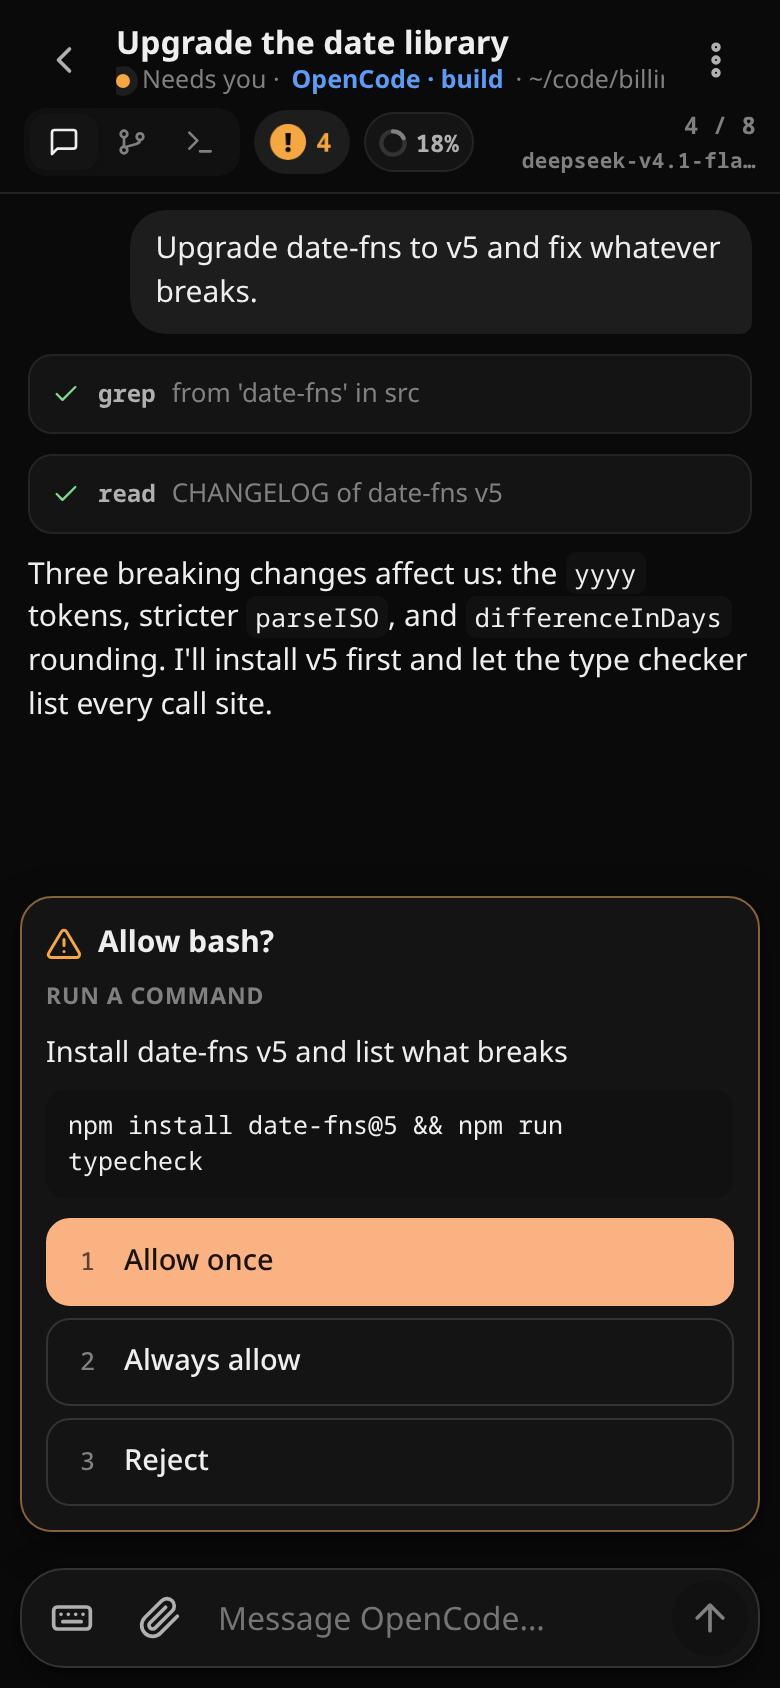
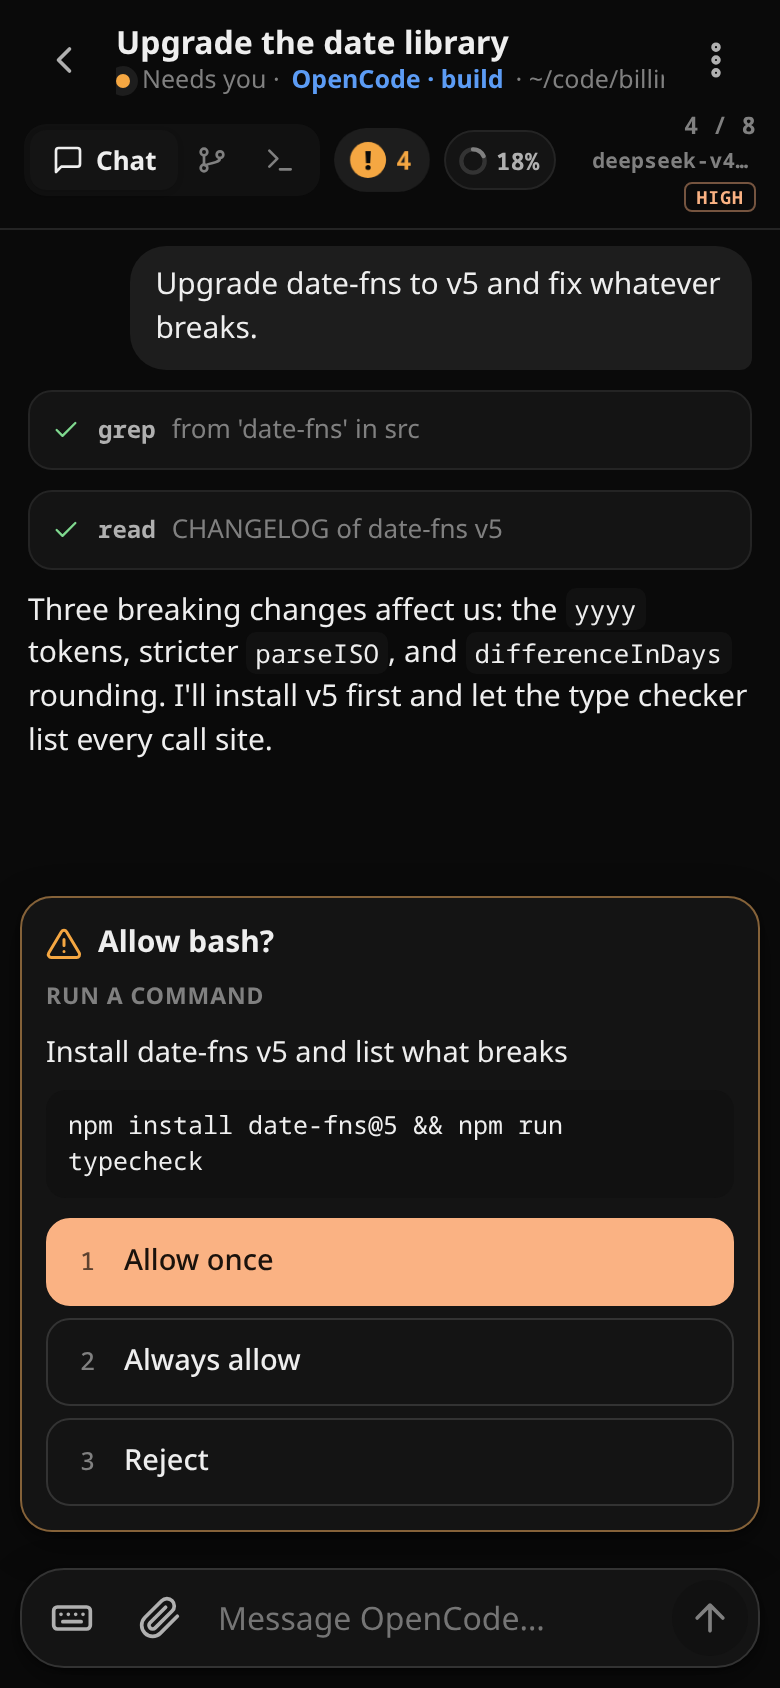
Effort badge under the model name; /btw in the commands
- Session header: a tiny badge with the reasoning effort (Claude Code: from the
  transcript's assistant lines; OpenCode: the model variant, no longer glued to the
  model name). Long model names are cut short so the badge and pager stay visible.
- Commands: /btw puts "/btw " in the message box; sent while Claude works it isn't
  shown as queued, and a hint points to the Terminal tab for the answer.

diff --git a/public/app.js b/public/app.js
@@ -482,7 +482,7 @@ function renderSession(id) {
       <button class="alert-btn" id="alertbtn" hidden aria-label="Pending actions"></button>
       <button class="hd-ctx" id="ctxbtn" hidden></button>
       <button class="hd-agents" id="agentsbtn" hidden></button>
-      <div class="sub-right"><div class="pager" id="pager"></div><div class="sub-model" id="s-model"></div></div>
+      <div class="sub-right"><div class="pager" id="pager"></div><div class="sub-model" id="s-model"></div><div class="sub-eff" id="s-eff"></div></div>
     </div>
     </div>
     <div id="body" style="flex:1;display:flex;flex-direction:column"></div>
@@ -831,7 +831,9 @@ function renderDock(s) {
       ta.value = ""; delete S.drafts[s.id]; atts.length = 0; drawAtts(); grow();
       // Busy session: show it as queued right away (the transcript can lag while Claude is streaming).
       const live = S.sessions.find((x) => x.id === s.id);
-      if (live?.status === "working" && S.chat?.id === s.id) {
+      // /btw is answered at once, beside the current task, and only on Claude Code's screen.
+      if (/^\/btw\s/.test(text)) toast("Asked. The answer shows in the Terminal tab");
+      else if (live?.status === "working" && S.chat?.id === s.id) {
         const q = queuedEl(text, S.chat, true);
         if (q) { S.chat.queue.appendChild(q); setTimeout(() => q.classList.contains("local") && q.remove(), 120_000); }
       }
@@ -1460,7 +1462,10 @@ function openSessionMenu(id) {
 }
 
 // ───────── commands & quick replies ─────────
+// [command, description, dangerous?, takes text?]. Commands that take text go into the message box instead
+// of being sent right away.
 const COMMANDS = [
+  ["/btw", "Ask a side question without interrupting the current task (answer shows in the Terminal tab)", false, true],
   ["/compact", "Summarise the conversation to free up context"],
   ["/context", "Show how full the context window is"],
   ["/model", "Switch model"],
@@ -1474,7 +1479,7 @@ function quickReplies() {
 function openPalette(s) {
   const isOC = s.kind === "opencode";
   const { el, close } = sheet(`${isOC ? "" : "<h3>Commands</h3>"}
-    <div class="pal">${(isOC ? [] : COMMANDS).map(([c, d, danger]) => `<button class="list-row" data-cmd="${c}" ${danger ? 'data-danger="1"' : ""}><div class="grow"><div class="t" style="font-family:var(--mono)">${c}</div><div class="s" style="font-family:var(--font)">${esc(d)}</div></div></button>`).join("")}</div>
+    <div class="pal">${(isOC ? [] : COMMANDS).map(([c, d, danger, arg]) => `<button class="list-row" data-cmd="${c}" ${danger ? 'data-danger="1"' : ""} ${arg ? 'data-arg="1"' : ""}><div class="grow"><div class="t" style="font-family:var(--mono)">${c}</div><div class="s" style="font-family:var(--font)">${esc(d)}</div></div></button>`).join("")}</div>
     <h3 style="margin-top:${isOC ? 0 : 20}px">Quick replies</h3>
     <div class="quick" id="quick"></div>
     <div style="display:flex;gap:8px;margin-top:10px"><input id="qnew" class="qin" placeholder="Add a quick reply…"><button class="btn" id="qadd">Add</button></div>
@@ -1484,6 +1489,12 @@ function openPalette(s) {
     catch (e) { toast(e.message, true); }
   };
   el.querySelectorAll("[data-cmd]").forEach((b) => (b.onclick = async () => {
+    if (b.dataset.arg) {
+      close();
+      const ta = $("#msg");
+      if (ta) { ta.value = b.dataset.cmd + " "; ta.dispatchEvent(new Event("input")); ta.focus(); ta.setSelectionRange(ta.value.length, ta.value.length); }
+      return;
+    }
     if (b.dataset.danger && !(await ask(`Send ${b.dataset.cmd}?`, "This can't be undone.", "Send", true))) return;
     send1(b.dataset.cmd);
   }));
@@ -2107,6 +2118,8 @@ function renderHeadExtras(s) {
   if (!cb || !ab) return;
   const md = $("#s-model");
   if (md) { const name = shortModel(s.context?.model ?? s.modelName); md.textContent = name; md.title = s.context?.model ?? s.modelName ?? ""; }
+  const ef = $("#s-eff"), effort = s.effort ?? s.context?.effort ?? "";
+  if (ef && ef.textContent !== effort) { ef.textContent = effort; ef.dataset.level = effort.toLowerCase(); ef.title = effort ? `Reasoning effort: ${effort}` : ""; }
   requestAnimationFrame(fitSubbar);
   const c = s.context;
   cb.hidden = !c;

diff --git a/tools/demo/server.ts b/tools/demo/server.ts
@@ -49,7 +49,7 @@ const sessions = [
   {
     ...base, id: "s-cache", name: "cc-api-2", title: "Cache product listings", cwd: "/home/demo/code/api", home: "~/code/api",
     status: "waiting", activityAt: now - 3 * min, startedAt: now - 25 * min,
-    context: { pct: 22, tokens: 220_000, size: 1_000_000, model: "claude-fable-5-2" },
+    context: { pct: 22, tokens: 220_000, size: 1_000_000, model: "claude-fable-5-2", effort: "medium" },
     prompt: {
       question: "Would you like to proceed?",
       context: ["Ready to code?", "Here is Claude's plan:"],
@@ -85,13 +85,13 @@ const sessions = [
   {
     ...base, id: "ses_demo1", name: "opencode", title: "Migrate billing to the new invoices table", cwd: "/home/demo/code/billing", home: "~/code/billing",
     status: "idle", activityAt: now - 26 * min, startedAt: now - 90 * min, kind: "opencode", agentName: "build", tmux: null,
-    modelName: "deepseek-v4.1-flash-free",
+    modelName: "deepseek-v4.1-flash-free", effort: "high",
     context: { pct: 41, tokens: 53_000, size: 128_000, model: "deepseek-v4.1-flash-free" }, agents: { total: 1, running: 0 },
   },
   {
     ...base, id: "ses_demo2", name: "opencode", title: "Upgrade the date library", cwd: "/home/demo/code/billing", home: "~/code/billing",
     status: "waiting", activityAt: now - 1 * min, startedAt: now - 9 * min, kind: "opencode", agentName: "build", tmux: null,
-    modelName: "deepseek-v4.1-flash-free",
+    modelName: "deepseek-v4.1-flash-free", effort: "high",
     context: { pct: 18, tokens: 23_000, size: 128_000, model: "deepseek-v4.1-flash-free" },
     prompt: {
       question: "Allow bash?",
@@ -109,7 +109,7 @@ const sessions = [
 ];
 
 // Context-window use and subagent counts (shown in the session header).
-const ctx = (pct: number, size = 1_000_000) => ({ pct, tokens: Math.round((pct / 100) * size), size, model: "claude-opus-5-5" });
+const ctx = (pct: number, size = 1_000_000) => ({ pct, tokens: Math.round((pct / 100) * size), size, model: "claude-opus-5-5", effort: "xhigh" });
 const extra: Record<string, any> = {
   "s-tests": { context: ctx(38), agents: { total: 3, running: 1 } },
   "s-plan": { context: ctx(12), agents: { total: 1, running: 0 } },

diff --git a/src/subagents.ts b/src/subagents.ts
@@ -10,7 +10,7 @@ import { readRange, fileSize, readTail, parseLines, type Item } from "./claude";
 // /compact boundary to its postTokens. The transcript doesn't record the window size, so it comes
 // from the model id: haiku and pre-4.6 Opus/Sonnet have 200k unless the id says [1m]; newer
 // models run with 1M in Claude Code. Seeing more than 200k in use also proves a 1M window.
-export type Context = { pct: number; tokens: number; size: number; model: string | null };
+export type Context = { pct: number; tokens: number; size: number; model: string | null; effort?: string | null };
 
 export function windowSize(model: string | null, tokens: number) {
   const m = (model ?? "").toLowerCase();
@@ -35,7 +35,7 @@ export function contextUsage(path: string | null): Context | null {
       const l = lines[i];
       if (!l.startsWith('{"parentUuid"') || l.includes('"isSidechain":true')) continue;
       if (l.includes('"subtype":"compact_boundary"')) {
-        try { const o = JSON.parse(l); const t = Math.trunc(Number(o.compactMetadata?.postTokens) || 0); ctx = { pct: 0, tokens: t, size: 0, model: c?.ctx?.model ?? null }; } catch {}
+        try { const o = JSON.parse(l); const t = Math.trunc(Number(o.compactMetadata?.postTokens) || 0); ctx = { pct: 0, tokens: t, size: 0, model: c?.ctx?.model ?? null, effort: c?.ctx?.effort ?? null }; } catch {}
         if (ctx) break;
       }
       if (!l.includes('"type":"assistant"') || !l.includes('"usage"')) continue;
@@ -44,7 +44,8 @@ export function contextUsage(path: string | null): Context | null {
       const u = o.message?.usage, model = o.message?.model;
       if (o.type !== "assistant" || !u || model === "<synthetic>") continue;
       const t = (u.input_tokens ?? 0) + (u.cache_creation_input_tokens ?? 0) + (u.cache_read_input_tokens ?? 0);
-      ctx = { pct: 0, tokens: t, size: 0, model: model ?? null };
+      // Assistant lines carry the effort level the reply was made with (low|medium|high|xhigh|max).
+      ctx = { pct: 0, tokens: t, size: 0, model: model ?? null, effort: typeof o.effort === "string" ? o.effort : null };
       break;
     }
     if (size <= span) break;

diff --git a/public/app.css b/public/app.css
@@ -646,8 +646,13 @@ mark { background: color-mix(in oklab, var(--accent) 30%, transparent); color: v
 /* row 2: tabs · alert · context · agents · (pager over model name) */
 .subbar { gap: 7px; }
 .sub-right { flex: 1 0 auto; display: flex; flex-direction: column; align-items: flex-end; gap: 3px; }
-.sub-model { font: 600 10.5px var(--mono); color: var(--ink-3); white-space: nowrap; overflow: hidden; text-overflow: ellipsis; max-width: 100%; letter-spacing: .02em; }
+.sub-model { font: 600 10.5px var(--mono); color: var(--ink-3); white-space: nowrap; overflow: hidden; text-overflow: ellipsis; max-width: 13ch; letter-spacing: .02em; }
 .sub-model:empty { display: none; }
+/* Reasoning effort, a tiny badge under the model name */
+.sub-eff { font: 700 9px/13px var(--mono); text-transform: uppercase; letter-spacing: .06em; padding: 0 5px; border-radius: 4px; color: var(--ink-3); border: 1px solid var(--line); white-space: nowrap; }
+.sub-eff:empty { display: none; }
+.sub-eff[data-level="high"] { color: var(--accent); border-color: color-mix(in srgb, var(--accent) 45%, transparent); }
+.sub-eff[data-level="xhigh"], .sub-eff[data-level="max"] { color: var(--bg); background: var(--accent); border-color: var(--accent); }
 .subbar .hd-ctx, .subbar .hd-agents { height: 30px; }
 .subbar.compact .seg button:not(.on) span { display: none; }
 .subbar.compact .seg button:not(.on) { padding: 6px 9px; }

diff --git a/src/server.ts b/src/server.ts
@@ -65,6 +65,8 @@ type Session = {
   kind?: "claude" | "opencode";
   agentName?: string;
   modelName?: string;
+  /** Reasoning effort: Claude Code's from the transcript, OpenCode's model variant. */
+  effort?: string | null;
   permId?: string;
   /** Claude Code shows "ctrl+b to run in background" for the running command or subagent. */
   canBackground?: boolean;
@@ -100,7 +102,7 @@ function ocToSession(o: OC.OcSession): Session {
     id: o.id, pid: 0, name: o.title, title: o.title, cwd: o.cwd, context: o.context, agents: o.agents,
     status: prompt ? "waiting" : o.running ? "working" : "idle",
     tmux: null, attention: null, prompt, lastInputAt: 0, activityAt: o.updated, startedAt: o.created, doneAt: h.doneAt,
-    kind: "opencode", agentName: o.agent, modelName: o.model ? o.model.id + (o.model.variant ? ` · ${o.model.variant}` : "") : undefined,
+    kind: "opencode", agentName: o.agent, modelName: o.model?.id, effort: o.model?.variant || null,
     permId: perm?.id,
   };
 }

diff --git a/tests/context.test.ts b/tests/context.test.ts
@@ -31,9 +31,9 @@ describe("contextUsage", () => {
   test("uses the newest main-chain assistant usage (input + cache, not output)", () => {
     const f = transcript(
       L.assistant([L.text("old")], {}, usage(1000, 9000)),
-      L.assistant([L.text("new")], {}, usage(2000, 140_000, 8000, 99_999)),
+      L.assistant([L.text("new")], { effort: "high" }, usage(2000, 140_000, 8000, 99_999)),
     );
-    expect(contextUsage(f)).toEqual({ tokens: 150_000, size: 1_000_000, pct: 15, model: "claude-opus-5-5" });
+    expect(contextUsage(f)).toEqual({ tokens: 150_000, size: 1_000_000, pct: 15, model: "claude-opus-5-5", effort: "high" });
   });
 
   test("ignores subagent and synthetic messages", () => {
